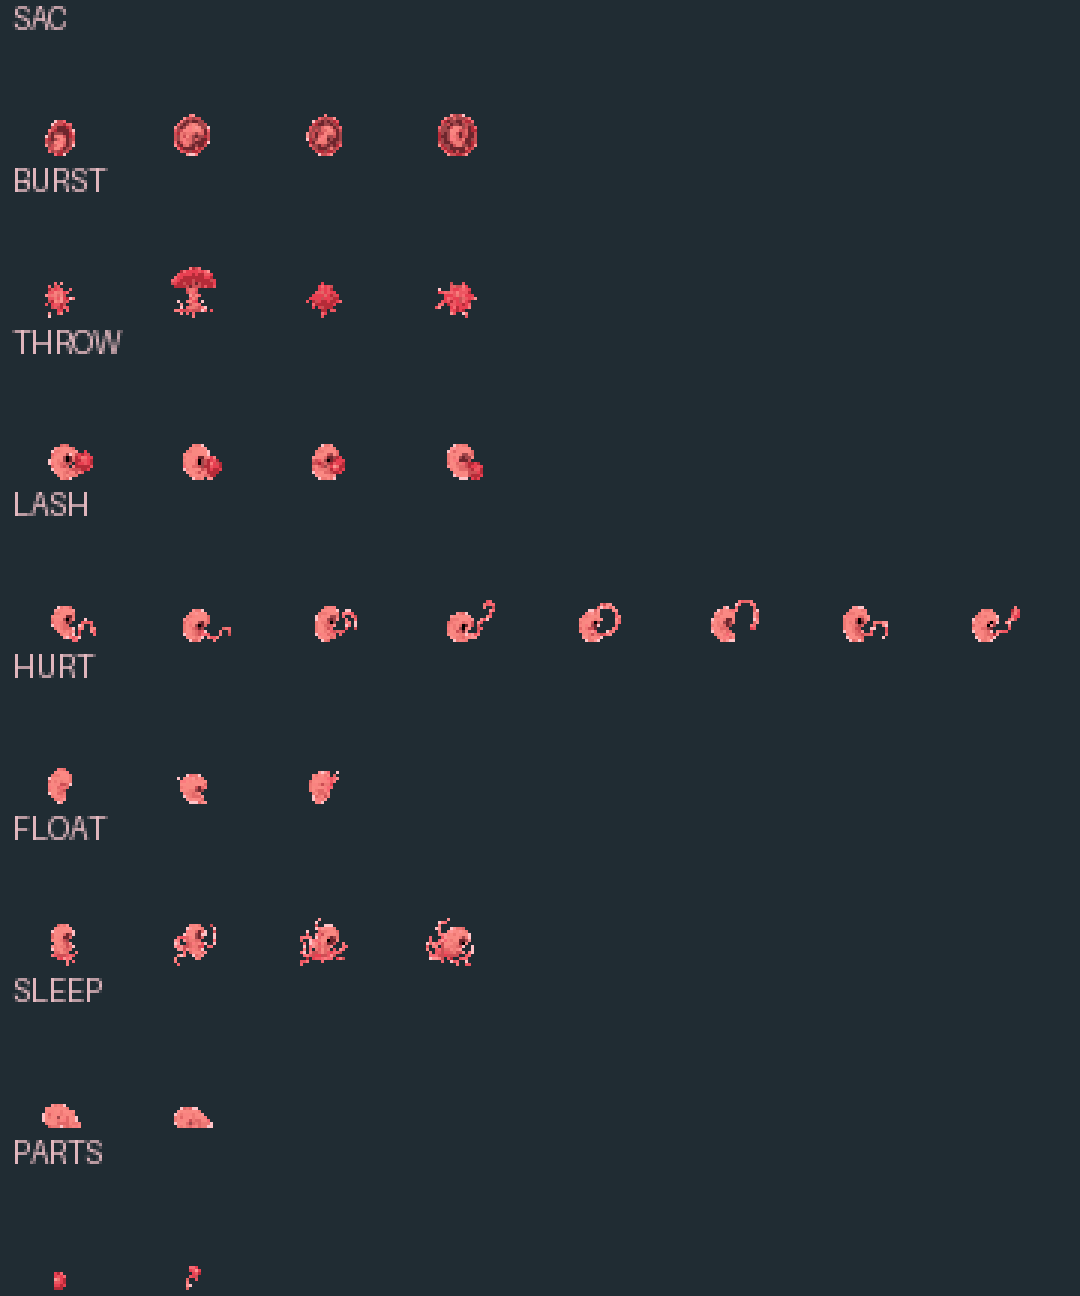
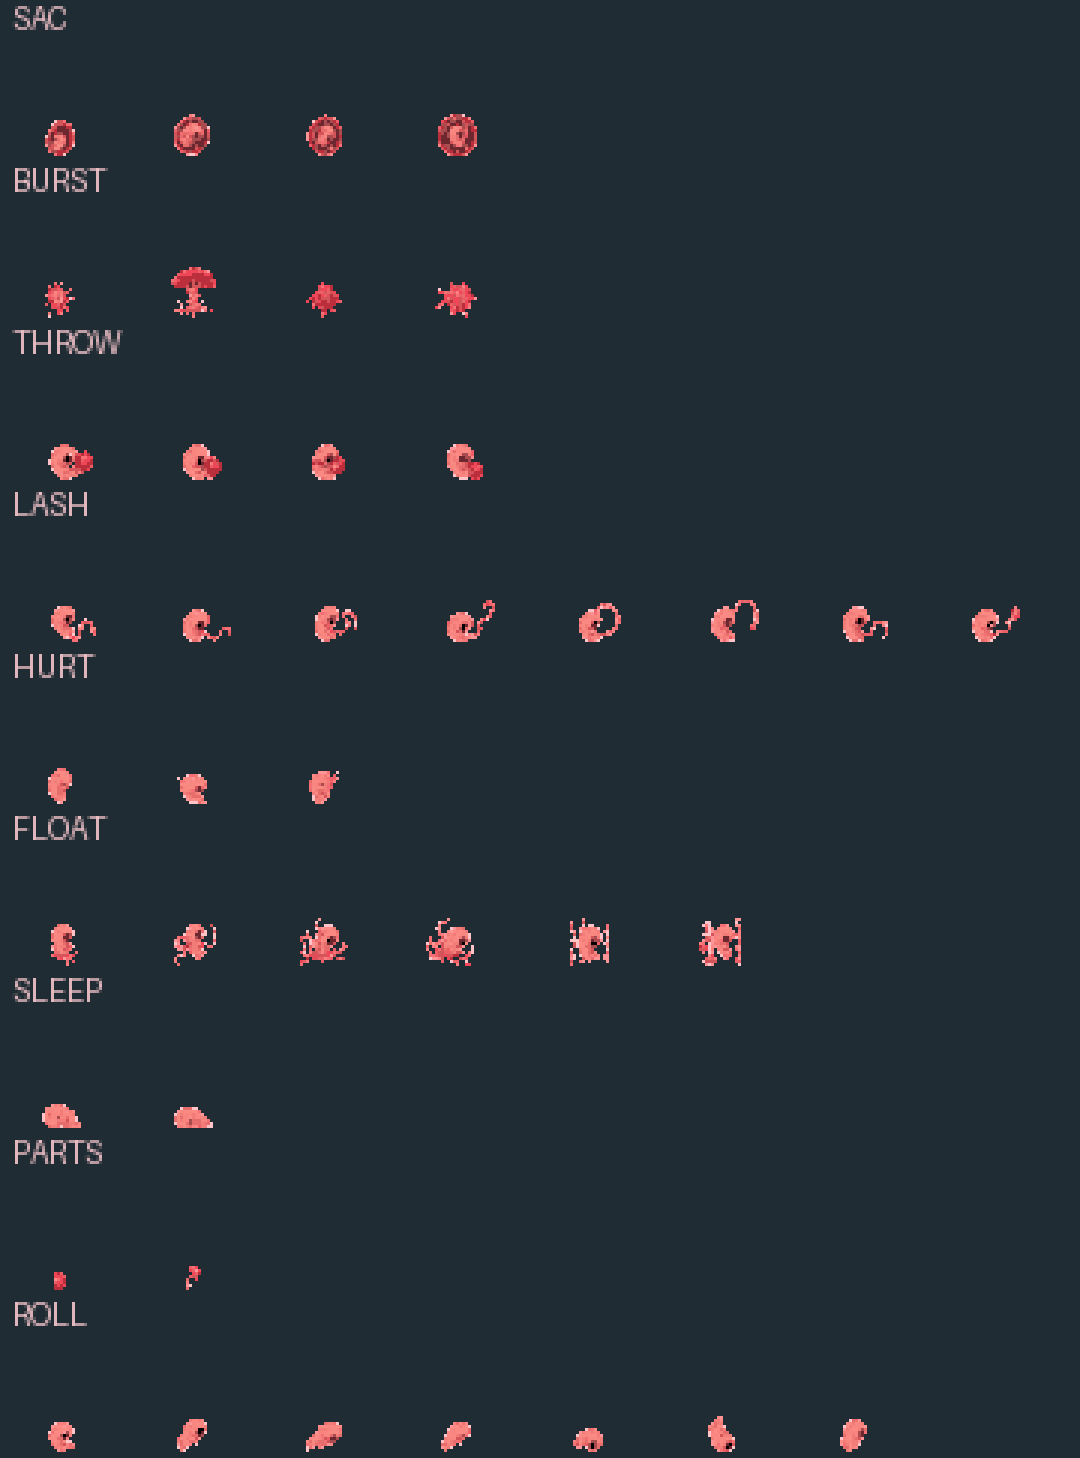
Use nine more Sligo poses for dodge and floating

diff --git a/index.html b/index.html
@@ -5869,7 +5869,7 @@ var TRAIL_BAYER=[0,8,2,10,12,4,14,6,3,11,1,9,15,7,13,5];
 var sligoTrail={x:new Int32Array(TRAIL_CAP),y:new Int32Array(TRAIL_CAP),t:new Float64Array(TRAIL_CAP),shape:new Uint8Array(TRAIL_CAP),seen:new Int16Array(TRAIL_CAP),next:0,size:0,clock:0,world:0,seed:0};
 // Sligo's specials (assets/max-skins-v1/sligo/specials.png, scripts/build-sligo-specials.py): the blood
 // sac it curls up in for a tun, and the splat when the sac bursts. Loaded the first time a Sligo needs it.
-var SLIGO_FX={img:null,cell:40,ax:20,ay:39,sac:[0,1,2,3],burst:[4,5,6,7],throw:[8,9,10,11],lash:[12,13,14,15,16,17,18,19],hurt:[20,21,22],float:[23,24,25,26],sleep:[27,28],parts:[29,30]},sligoBursts=[];
+var SLIGO_FX={img:null,cell:40,ax:20,ay:39,sac:[0,1,2,3],burst:[4,5,6,7],throw:[8,9,10,11],lash:[12,13,14,15,16,17,18,19],hurt:[20,21,22],float:[23,24,25,26,38,39],sleep:[27,28],parts:[29,30],roll:[31,32,33,34,35,36,37]},sligoBursts=[];
 function sligoFx(){return SLIGO_FX.img||(SLIGO_FX.img=loadImg('assets/max-skins-v1/sligo/specials.png'));}
 function sligoFxFrame(f,x,y){var F=SLIGO_FX,im=sligoFx();if(!ready(im))return false;ctx.drawImage(im,f*F.cell,0,F.cell,F.cell,Math.round(x)-F.ax,Math.round(y)-F.ay,F.cell,F.cell);return true;}
 function trailTracker(salt){return {on:-1,mx:0,clot:12,after:0,curled:false,n:0,salt:salt||0};}
@@ -5878,7 +5878,8 @@ function trailRand(k){k.n++;return h1(k.n*.917+k.salt*7.3);}
 // Cosmetic poses follow the existing animation clock: hit/pour markers remain authoritative.
 function drawSligoAction(a,x,y){
   var clip=null,step=a.frame||0;
-  if(a.anim==='toss'){clip=SLIGO_FX.throw;step=[0,1,2,3,0][Math.min(4,step)];}
+  if(a.dodgeT>0||a.dodging){clip=SLIGO_FX.roll;step=a.dodgeT>0?Math.min(6,Math.max(0,Math.floor((1-a.dodgeT/DODGE_TIME)*7))):(a.frame||0)%7;}
+  else if(a.anim==='toss'){clip=SLIGO_FX.throw;step=[0,1,2,3,0][Math.min(4,step)];}
   else if(a.hurt>0){clip=SLIGO_FX.hurt;step=Math.min(2,Math.floor((2-Math.min(2,a.hurt))*8));}
   else if(a.st==='float'){clip=SLIGO_FX.float;step=Math.floor(tSec*8)%clip.length;}
   else if(a.anim==='dig'||a.anim==='water'||a.anim==='waterHold'||a.anim==='pick'){clip=SLIGO_FX.lash;step=step%clip.length;}

diff --git a/scripts/build-sligo-specials.py b/scripts/build-sligo-specials.py
@@ -11,7 +11,7 @@ and hard alpha at half, and all frames share one palette of at most 16 colours. 
 40x40 cell with its bottom row on row 39, centred on x 20, like the skins' feet (the splash is taller than a skin cell).
 
     python3 scripts/build-sligo-specials.py
-      -> assets/max-skins-v1/sligo/specials.png (31 cells in a row), specials.json
+      -> assets/max-skins-v1/sligo/specials.png (40 cells in a row), specials.json
 """
 import base64
 import io
@@ -109,6 +109,13 @@ def main():
     for box in PARTS:
         clips['parts'].append(len(frames))
         frames.append(native(a, box, scale))
+    clips['roll'] = []
+    for i in range(7):
+        clips['roll'].append(len(frames))
+        frames.append(native(a, rows[2][i], scale))
+    clips['float'].extend([len(frames), len(frames) + 1])
+    for i in [6, 7]:
+        frames.append(native(a, rows[5][i], scale))
     strip = np.zeros((CELL, CELL * len(frames), 4), np.uint8)
     for k, f in enumerate(frames):
         h, w = f.shape[:2]
@@ -142,7 +149,7 @@ def main():
         'schema': 'max-sligo-specials/v1', 'image': 'specials.png', 'cell': [CELL, CELL], 'anchor': [CELL // 2, CELL - 1],
         'clips': clips, 'scale': round(scale, 4),
         'source': 'docs/asset-review/sligo-specials-v1/level.json (object ' + SHEET + '); scripts/build-sligo-specials.py',
-        'sourceClips': CLIPS, 'sourceParts': PARTS,
+        'sourceClips': CLIPS + [('roll', 2, list(range(7))), ('float', 5, [6, 7])], 'sourceParts': PARTS,
     }, indent=1) + '\n')
     print('specials.png', out.shape[1], 'x', out.shape[0], 'frames', len(frames), 'scale', round(scale, 3),
           'rows found', [len(r) for r in rows])

diff --git a/docs/asset-review/sligo-specials-v1/README.md b/docs/asset-review/sligo-specials-v1/README.md
@@ -1,6 +1,6 @@
 # Sligo specials
 
-The owner's unchanged Max Level Studio export (`level.json`) contains the transparent versions of the uploaded drawings. `scripts/build-sligo-specials.py` extracts the existing painted poses, reduces all of them at the same body-relative scale, and packs 31 exact 40×40 cells with anchor (20,39), binary alpha and 16 colours.
+The owner's unchanged Max Level Studio export (`level.json`) contains the transparent versions of the uploaded drawings. `scripts/build-sligo-specials.py` extracts the existing painted poses, reduces all of them at the same body-relative scale, and packs 40 exact 40×40 cells with anchor (20,39), binary alpha and 16 colours.
 
 | Frames | Use |
 | --- | --- |
@@ -9,10 +9,13 @@ The owner's unchanged Max Level Studio export (`level.json`) contains the transp
 | 8–11 | Clot-holding throw |
 | 12–19 | Cord lash while digging, watering and picking |
 | 20–22 | Hurt |
-| 23–26 | Floating tendrils |
+| 23–26, 38–39 | Floating tendrils |
 | 27–28 | Sleeping |
 | 29–30 | Detached clot and cord tip projectiles |
+| 31–37 | Dodge roll |
 
 The exact source boxes and clips are recorded in `specials.json`. No sprite is enlarged to fill its cell. The runtime preserves throw/hit/pour timing and original combat balance. Other characters retain ordinary bombs; Sligo has no fuse spark or orange explosion. Projectile and blast identity replicate to guests.
 
 Run `python scripts/build-sligo-specials.py`, `npm test`, and `npm run build`. The expanded PNG is pinned in the existing `assets/figma-pending.json` workflow; `npm run figma:check` cannot connect to the desktop MCP server in this environment, so Figma sync is still pending.
+
+The reuploaded `Untitled.zip` has the identical level.json and all 351 source assets. Nine additional existing drawings now supply the dodge roll and extended floating tendrils. Sligo remains unable to climb.

diff --git a/CLAUDE.md b/CLAUDE.md
@@ -259,4 +259,4 @@ Prefer small commits that keep CI green. Preserve concurrent changes already on 
 
 When the user says a mechanic feels wrong, fix the actual interaction rather than documenting around it.
 
-Sligo now uses 31 native specials frames: sac/burst, throw, tending lash, hurt, floating tendrils, sleep, and two detached flesh/cord projectiles. `bomb.sligo` survives the scalar co-op snapshot and the same flag on the blast selects blood effects; perks retain the original combat rules. `drawSligoAction` follows existing animation frames without changing hit/pour timing. Figma desktop MCP was unavailable; the existing pending-art entry pins the expanded strip.
+Sligo now uses 40 native specials frames: sac/burst, throw, tending lash, hurt, floating tendrils, sleep, and two detached flesh/cord projectiles. `bomb.sligo` survives the scalar co-op snapshot and the same flag on the blast selects blood effects; perks retain the original combat rules. `drawSligoAction` follows existing animation frames without changing hit/pour timing. Figma desktop MCP was unavailable; the existing pending-art entry pins the expanded strip.
